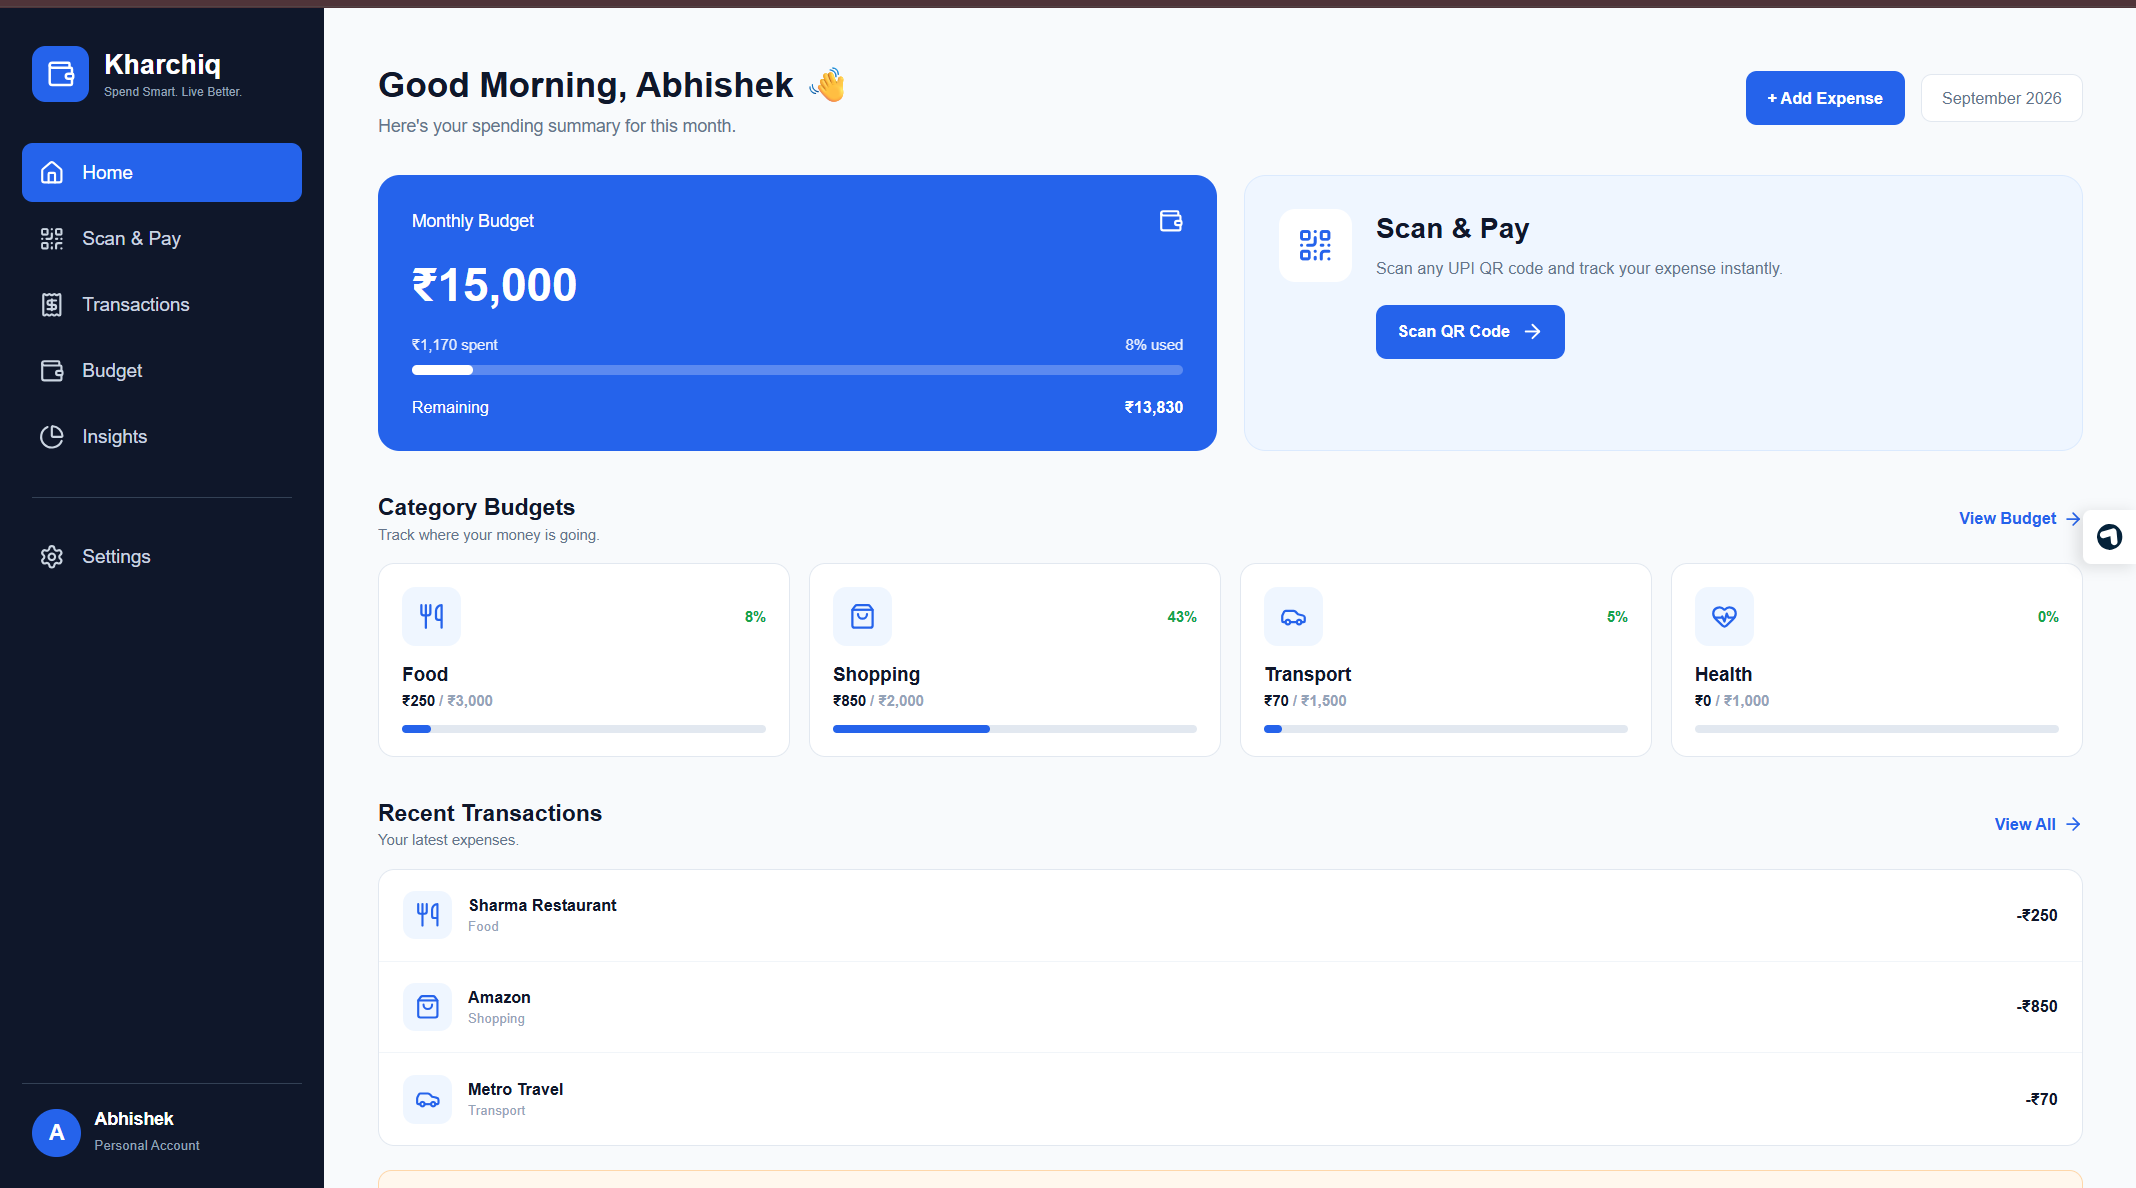
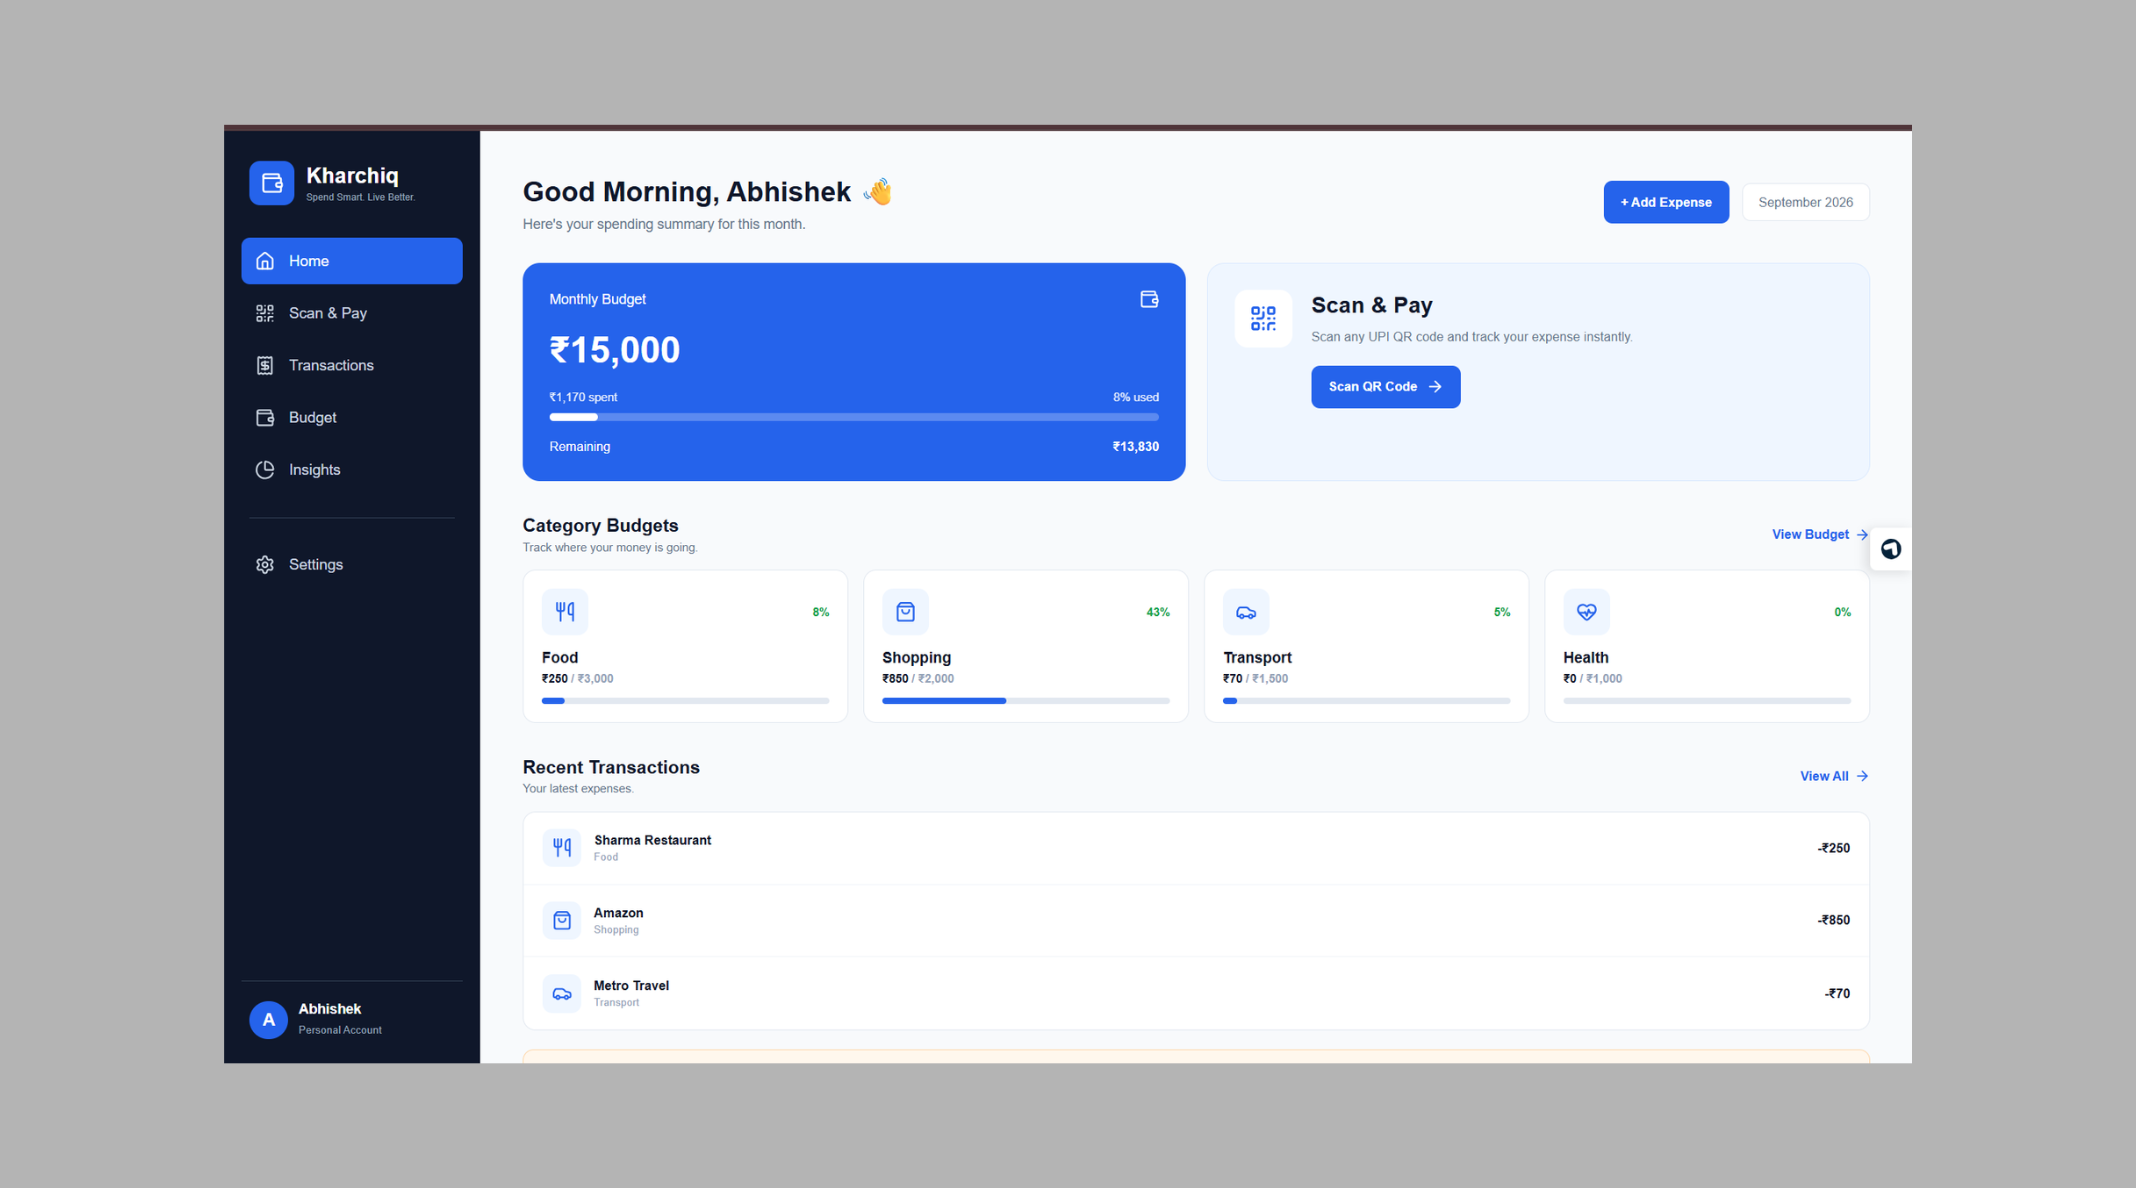
Add link for kharchiq App

diff --git a/index.html b/index.html
@@ -223,34 +223,28 @@
         </div>
 
         <div class="projects-grid">
-          <!-- Student Management Dashboard -->
+          <!-- Kharchiq -->
           <div class="project-card">
             <div class="project-image">
-              <img src="images/Student Deshboard.png" alt="Student Management Dashboard" />
+              <img src="images/Kharchiq-App.png" alt="Kharchiq Budget App" />
             </div>
 
             <div class="project-content">
               <span class="project-number">01</span>
-              <h3>Student Management Dashboard</h3>
+              <h3>Kharchiq – Budget App</h3>
 
               <p>
-                A responsive Student Management Dashboard built with Vanilla
-                JavaScript, HTML5, and CSS3. Features full CRUD operations,
-                LocalStorage data persistence, live search, multi-attribute
-                filtering, and real-time analytics.
+                A smart budget and expense management application designed to
+                help users track spending and manage monthly budgets.
               </p>
 
               <div class="project-tech">
-                <span>HTML</span>
-                <span>CSS</span>
+                <span>React</span>
                 <span>JavaScript</span>
+                <span>UI/UX</span>
               </div>
 
-              <a
-                href="https://abhishek7362.github.io/Student-Management-Dashboard/"
-                target="_blank"
-                class="project-btn"
-              >
+              <a href="https://kharchiq.vercel.app/" target="_blank" class="project-btn">
                 View Project →
               </a>
             </div>
@@ -288,32 +282,40 @@
             </div>
           </div>
 
-          <!-- Kharchiq -->
+
+          <!-- Student Management Dashboard -->
           <div class="project-card">
             <div class="project-image">
-              <img src="images/Kharchiq-App.png" alt="Kharchiq Budget App" />
+              <img src="images/Student Deshboard.png" alt="Student Management Dashboard" />
             </div>
 
             <div class="project-content">
               <span class="project-number">03</span>
-              <h3>Kharchiq – Budget App</h3>
+              <h3>Student Management Dashboard</h3>
 
               <p>
-                A smart budget and expense management application designed to
-                help users track spending and manage monthly budgets.
+                A responsive Student Management Dashboard built with Vanilla
+                JavaScript, HTML5, and CSS3. Features full CRUD operations,
+                LocalStorage data persistence, live search, multi-attribute
+                filtering, and real-time analytics.
               </p>
 
               <div class="project-tech">
-                <span>React</span>
+                <span>HTML</span>
+                <span>CSS</span>
                 <span>JavaScript</span>
-                <span>UI/UX</span>
               </div>
 
-              <a href="YOUR_GITHUB_LINK" target="_blank" class="project-btn">
+              <a
+                href="https://abhishek7362.github.io/Student-Management-Dashboard/"
+                target="_blank"
+                class="project-btn"
+              >
                 View Project →
               </a>
             </div>
           </div>
+          
         </div>
       </section>
 
